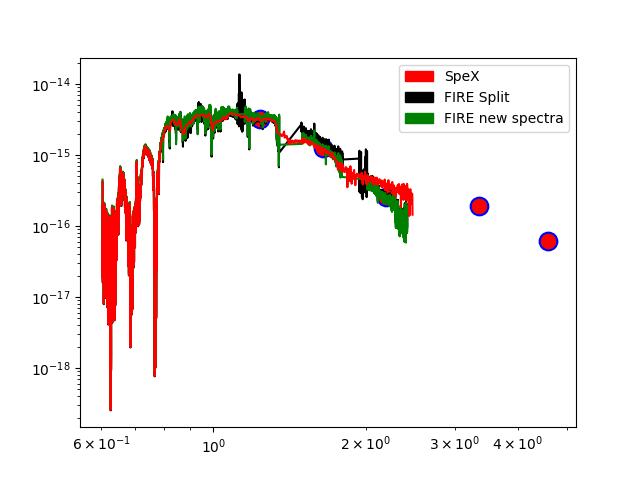
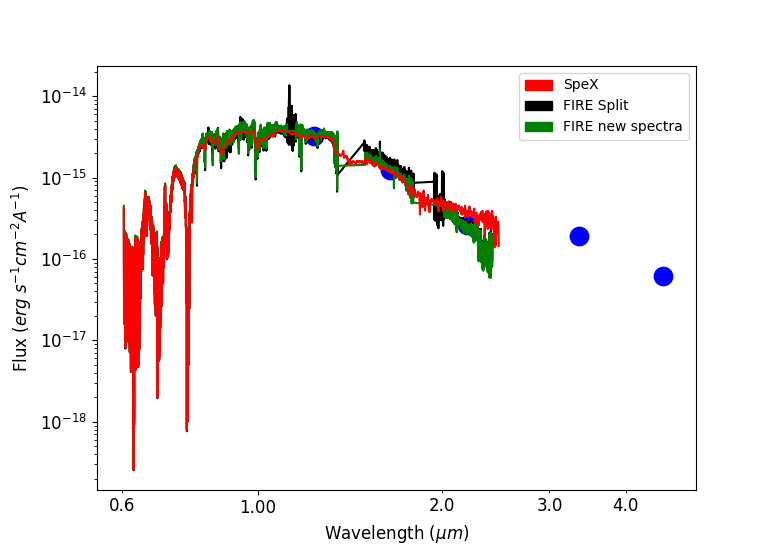
Updated axis units for comparison plot of the ways in which to break up the re-reduced FIRE spectra compared to the Spex

diff --git a/SEDcomparisonplot.py b/SEDcomparisonplot.py
@@ -1,6 +1,7 @@
 import pandas as pd
 import matplotlib.pyplot as plt
 import matplotlib.patches as mpatches
+from matplotlib.ticker import ScalarFormatter
 
 
 # Read in SED
@@ -19,14 +20,33 @@ spex_photk = pd.read_csv('Redone/SpexK1256-0224 (L3.5sd) phot.txt', sep=" ", hea
 # h = df[(df['w'] >= 1.4987) & (df['w'] <= 1.79588)]
 # k = df[(df['w'] >= 2.01515)]
 
-plt.loglog(split_spec['w'], split_spec['f'], c='black')
-plt.scatter(split_phot['w'], split_phot['f'], c='blue', s=175)
-plt.loglog(df['w'], df['f'], c='green')
-plt.scatter(df2['w'], df2['f'], c='green', s=100)
-plt.loglog(spexk['w'], spexk['f'], c='red')
-plt.scatter(spex_photk['w'], spex_photk['f'], c='red', s=100)
+# ------ Creating the figure --------
+
+fig = plt.figure()
+ax1 = fig.add_subplot(111)
+
+ax1.loglog(split_spec['w'], split_spec['f'], c='black')
+ax1.scatter(split_phot['w'], split_phot['f'], c='blue', s=175)
+ax1.loglog(df['w'], df['f'], c='green')
+# plt.scatter(df2['w'], df2['f'], c='green', s=175)  # The photometric points are the same so only need them once
+ax1.loglog(spexk['w'], spexk['f'], c='red')
+# plt.scatter(spex_photk['w'], spex_photk['f'], c='red', s=175)
+
+# -----Axes labels and reformatting
+plt.ylabel('Flux $(erg\ s^{-1} cm^{-2} A^{-1})$', fontsize= 12)
+plt.yticks(fontsize=12)
+ax1.xaxis.set_major_formatter(ScalarFormatter())
+ax1.xaxis.set_minor_formatter(ScalarFormatter())
+ax1.xaxis.set_minor_locator(plt.FixedLocator([0.6,2, 3, 4]))
+ax1.tick_params(axis='x', which='major',labelsize=12)
+ax1.tick_params(axis='x', which='minor',labelsize=12)
+plt.xlabel('Wavelength ($\mu m$)', fontsize=12)
+
+# ------- Labeling the Spectra -----------
 red_spec = mpatches.Patch(color='red',label='SpeX')
 black_spec = mpatches.Patch(color='black',label='FIRE Split')
 green_spec = mpatches.Patch(color='green',label='FIRE new spectra')
 plt.legend(handles=[red_spec, black_spec, green_spec])
+
+# ------ Before saving make sure that the axes labels can be seen, resize as necessary -----
 plt.savefig('Plots/Comparison_SpeX_FIRE_new.png')
